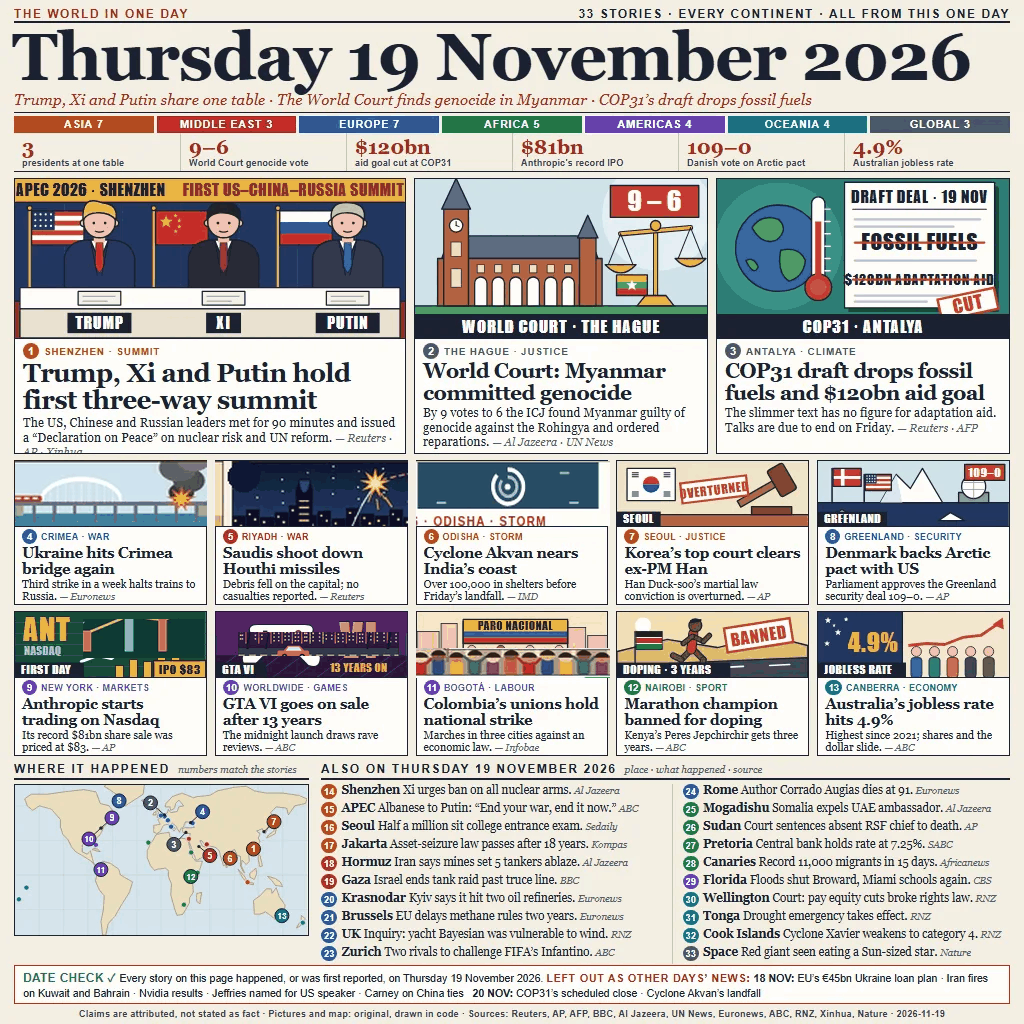
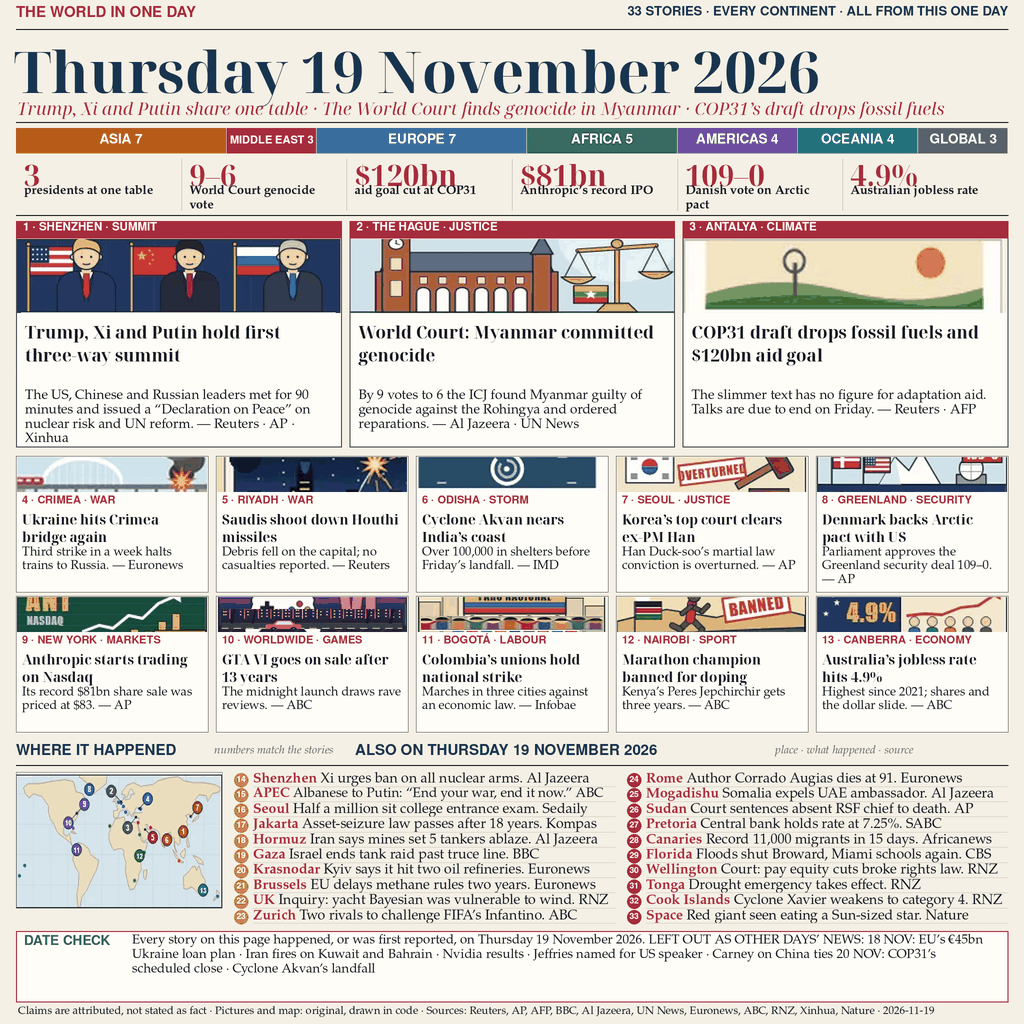
Publish redesigned World News infographic v2

diff --git a/render.py b/render.py
@@ -1,55 +1,278 @@
-"""Composite relevant supplied editorial artwork into Image 1 without retypesetting it."""
+"""Render the 33-story Image 1 edition with a thumbnail-legible type hierarchy."""
 from pathlib import Path
-from PIL import Image, ImageDraw
+from PIL import Image, ImageDraw, ImageFont
+import random
 
 ROOT = Path(__file__).resolve().parent
+OUT = ROOT / "assets" / "entry.png"
 BASE = ROOT / "assets" / "entry-source.webp"
 REF2 = ROOT / "assets" / "reference-2.webp"
 REF3 = ROOT / "assets" / "reference-3.webp"
-OUT = ROOT / "assets" / "entry.png"
+W = H = 1024
+S = 2
 
+FONT_SERIF = "/usr/share/fonts/opentype/urw-base35/P052-Roman.otf"
+FONT_SERIF_B = "/usr/share/fonts/opentype/urw-base35/P052-Bold.otf"
+FONT_SERIF_I = "/usr/share/fonts/opentype/urw-base35/P052-Italic.otf"
+FONT_DISPLAY = "/usr/share/fonts/truetype/noto/NotoSerifDisplay-Bold.ttf"
+FONT_DISPLAY_I = "/usr/share/fonts/truetype/noto/NotoSerifDisplay-Italic.ttf"
+FONT_SANS = "/usr/share/fonts/opentype/urw-base35/NimbusSans-Regular.otf"
+FONT_SANS_B = "/usr/share/fonts/opentype/urw-base35/NimbusSans-Bold.otf"
 
-def paste_art(canvas, source, source_box, target_box, resample=Image.Resampling.LANCZOS):
-    art = source.crop(source_box).resize(
-        (target_box[2] - target_box[0], target_box[3] - target_box[1]), resample
-    )
-    canvas.paste(art, target_box[:2])
+BG = "#F4F0E5"
+PAPER = "#FFFDF7"
+INK = "#171B20"
+NAVY = "#17354F"
+RED = "#A52C3D"
+BLUE = "#386D9E"
+GREEN = "#326B54"
+OCHRE = "#C18A40"
+MUTED = "#6B6A64"
+RULE = "#8C887F"
 
 
 def render():
-    page = Image.open(BASE).convert("RGB")
+    canvas = Image.new("RGB", (W*S, H*S), BG)
+    d = ImageDraw.Draw(canvas)
+    original = Image.open(BASE).convert("RGB")
     ref2 = Image.open(REF2).convert("RGB")
     ref3 = Image.open(REF3).convert("RGB")
+    cache = {}
 
-    # Image 1's editorial layout and all its typography remain the base layer.
-    # Only the illustration windows are adapted, and only from matching stories.
-    # Start to the right of each source illustration's old story-number badge.
-    paste_art(page, ref2, (535, 439, 654, 487), (15, 461, 207, 526))    # Crimea bridge
-    riyadh_box = (837, 439, 974, 487)
-    riyadh = ref2.crop(riyadh_box)
-    # Remove the source card's old red 9 marker; Image 1 supplies the correct 5.
-    riyadh_fill = ref2.getpixel((875, 442))
-    ImageDraw.Draw(riyadh).ellipse((857 - riyadh_box[0] - 11, 450 - riyadh_box[1] - 11,
-                                    857 - riyadh_box[0] + 11, 450 - riyadh_box[1] + 11), fill=riyadh_fill)
-    page.paste(riyadh.resize((193, 65), Image.Resampling.LANCZOS), (215, 461))
-    paste_art(page, ref3, (426, 429, 604, 482), (416, 461, 610, 526))  # Cyclone Akvan
+    def F(size, family="serif"):
+        path = {"serif": FONT_SERIF, "serifb": FONT_SERIF_B, "serifi": FONT_SERIF_I,
+                "display": FONT_DISPLAY, "displayi": FONT_DISPLAY_I,
+                "sans": FONT_SANS, "sansb": FONT_SANS_B}[family]
+        key = (path, int(round(size*S)))
+        if key not in cache:
+            cache[key] = ImageFont.truetype(path, key[1])
+        return cache[key]
 
-    # Reuse the matching market plot, with no extra labels, in the existing ANT panel.
-    paste_art(page, ref3, (860, 248, 982, 305), (83, 619, 204, 658))
+    def box(x1,y1,x2,y2,fill=None,outline=None,width=1):
+        d.rectangle((round(x1*S),round(y1*S),round(x2*S),round(y2*S)),fill=fill,outline=outline,width=max(1,round(width*S)))
 
-    # Add a cinematic city/car strip from the GTA VI art while retaining Image 1's
-    # original GTA VI and 13 years lettering above and below it.
-    paste_art(page, ref2, (420, 254, 710, 298), (238, 632, 399, 656))
+    def line(x1,y1,x2,y2,fill=RULE,width=1):
+        d.line((round(x1*S),round(y1*S),round(x2*S),round(y2*S)),fill=fill,width=max(1,round(width*S)))
 
-    # Use the matching Bogotá march crowd in the lower part of its existing art
-    # window; preserve Image 1's own PARO NACIONAL lettering and card number.
-    paste_art(page, ref2, (690, 628, 814, 655), (416, 648, 610, 678))
+    def text(x,y,s,size,fill=INK,family="serif",anchor=None):
+        d.text((round(x*S),round(y*S)),s,font=F(size,family),fill=fill,anchor=anchor)
 
-    page.quantize(colors=256, method=Image.Quantize.MEDIANCUT, dither=Image.Dither.NONE).save(
-        OUT, format="PNG", optimize=True, compress_level=9
+    def width(s,size,family="serif"):
+        return d.textlength(s,font=F(size,family))/S
+
+    def wrap(s,size,maxw,family="serif"):
+        rows=[]; cur=""
+        for word in s.split():
+            t=(cur+" "+word).strip()
+            if width(t,size,family)>maxw and cur:
+                rows.append(cur); cur=word
+            else: cur=t
+        if cur: rows.append(cur)
+        return rows
+
+    def para(x,y,s,maxw,size,fill=INK,family="serif",leading=None,maxlines=20,fit_min=None):
+        fs=size
+        rows=wrap(s,fs,maxw,family)
+        if fit_min is not None:
+            while len(rows)>maxlines and fs>fit_min:
+                fs-=.2; rows=wrap(s,fs,maxw,family)
+        rows=rows[:maxlines]
+        step=leading or fs*1.2
+        for i,row in enumerate(rows): text(x,y+i*step,row,fs,fill,family)
+        return len(rows)*step, rows, fs
+
+    def fitted(s,maxw,size,family="serifb",minimum=9):
+        while size>minimum and width(s,size,family)>maxw: size-=.2
+        return size
+
+    def place_crop(source,crop,target,mode="cover"):
+        image=source.crop(crop)
+        x1,y1,x2,y2=target; tw=round((x2-x1)*S); th=round((y2-y1)*S)
+        if mode=="cover":
+            scale=max(tw/image.width,th/image.height)
+            image=image.resize((round(image.width*scale),round(image.height*scale)),Image.Resampling.LANCZOS)
+            left=(image.width-tw)//2; top=(image.height-th)//2
+            image=image.crop((left,top,left+tw,top+th))
+        else:
+            image=image.resize((tw,th),Image.Resampling.LANCZOS)
+        canvas.paste(image,(round(x1*S),round(y1*S)))
+
+    # Quiet paper grain, matching Image 1's ivory identity.
+    random.seed(20261119)
+    for _ in range(8000):
+        x=random.randrange(W*S); y=random.randrange(H*S)
+        canvas.putpixel((x,y),(244,240,229) if random.random()<.65 else (248,245,237))
+    d=ImageDraw.Draw(canvas)
+
+    # Masthead and date, retaining Image 1's wording and structure.
+    text(16,6,"THE WORLD IN ONE DAY",15.2,RED,"sansb")
+    text(1008,6,"33 STORIES · EVERY CONTINENT · ALL FROM THIS ONE DAY",13.2,NAVY,"sansb","ra")
+    line(16,29,1008,29,INK,1.2)
+    title="Thursday 19 November 2026"
+    text(14,32,title,fitted(title,994,57,"display",49),NAVY,"display")
+    subtitle="Trump, Xi and Putin share one table · The World Court finds genocide in Myanmar · COP31’s draft drops fossil fuels"
+    para(17,96,subtitle,990,17.6,RED,"displayi",20,2,15)
+    line(16,122,1008,122,INK,.8)
+
+    # Geographical distribution.
+    regions=[("ASIA",7,"#B65C18"),("MIDDLE EAST",3,RED),("EUROPE",7,BLUE),("AFRICA",5,GREEN),
+             ("AMERICAS",4,"#6B4BA0"),("OCEANIA",4,"#1A7180"),("GLOBAL",3,"#58626C")]
+    total=sum(n for _,n,_ in regions); x=16; barw=992
+    for label,count,color in regions:
+        ww=barw*count/total
+        box(x,128,x+ww-1,153,color)
+        labeltext=f"{label} {count}"
+        fs=fitted(labeltext,ww-4,13.6,"sansb",10.5)
+        text(x+ww/2,140.5,labeltext,fs,"#FFFFFF","sansb","mm")
+        x+=ww
+
+    # Six key figures; larger numerals and captions.
+    stats=[("3","presidents at one table"),("9–6","World Court genocide vote"),
+           ("$120bn","aid goal cut at COP31"),("$81bn","Anthropic’s record IPO"),
+           ("109–0","Danish vote on Arctic pact"),("4.9%","Australian jobless rate")]
+    sx=16; sw=992/6
+    for i,(num,desc) in enumerate(stats):
+        x=sx+i*sw
+        if i: line(x,159,x,210,"#B4AEA2",.7)
+        text(x+8,155,num,fitted(num,sw-16,29,"display",22),RED,"display")
+        para(x+8,185,desc,sw-16,12.7,INK,"serifb",14.6,2,11.3)
+    line(16,215,1008,215,INK,.9)
+
+    # Feature cards: smaller art panes leave more room for readable copy.
+    leads=[
+      ("1","SHENZHEN · SUMMIT","Trump, Xi and Putin hold first three-way summit",
+       "The US, Chinese and Russian leaders met for 90 minutes and issued a “Declaration on Peace” on nuclear risk and UN reform. — Reuters · AP · Xinhua",(16,202,405,289),original),
+      ("2","THE HAGUE · JUSTICE","World Court: Myanmar committed genocide",
+       "By 9 votes to 6 the ICJ found Myanmar guilty of genocide against the Rohingya and ordered reparations. — Al Jazeera · UN News",(415,220,707,307),original),
+      ("3","ANTALYA · CLIMATE","COP31 draft drops fossil fuels and $120bn aid goal",
+       "The slimmer text has no figure for adaptation aid. Talks are due to end on Friday. — Reuters · AFP",(216,429,410,470),ref3)]
+    lx=16; ly=221; gap=8; lw=(992-2*gap)/3; lh=226
+    for i,(num,loc,head,desc,crop,source) in enumerate(leads):
+        x=lx+i*(lw+gap)
+        box(x,ly,x+lw,ly+lh,PAPER,"#494B4C",.8)
+        box(x,ly,x+lw,ly+17,RED)
+        text(x+7,ly+1,f"{num} · {loc}",11.4,"#FFFFFF","sansb")
+        place_crop(source,crop,(x+1,ly+18,x+lw-1,ly+92),"stretch")
+        hs=fitted(head,lw-18,21.2,"display",17)
+        para(x+9,ly+99,head,lw-18,hs,INK,"display",23,3,16.2)
+        para(x+9,ly+168,desc,lw-18,13.5,INK,"serif",14.4,4,12.2)
+
+    # Ten story cards. Their original topic-matched art remains; selected panels
+    # use matching scenes from the supplied reference graphics.
+    stories=[
+      ("4","CRIMEA · WAR","Ukraine hits Crimea bridge again","Third strike in a week halts trains to Russia. — Euronews",(535,439,654,487),ref2),
+      ("5","RIYADH · WAR","Saudis shoot down Houthi missiles","Debris fell on the capital; no casualties reported. — Reuters",(837,439,974,487),ref2),
+      ("6","ODISHA · STORM","Cyclone Akvan nears India’s coast","Over 100,000 in shelters before Friday’s landfall. — IMD",(426,429,604,482),ref3),
+      ("7","SEOUL · JUSTICE","Korea’s top court clears ex-PM Han","Han Duck-soo’s martial law conviction is overturned. — AP",(618,460,810,525),original),
+      ("8","GREENLAND · SECURITY","Denmark backs Arctic pact with US","Parliament approves the Greenland security deal 109–0. — AP",(817,460,1010,525),original),
+      ("9","NEW YORK · MARKETS","Anthropic starts trading on Nasdaq","Its record $81bn share sale was priced at $83. — AP",(14,611,207,678),original),
+      ("10","WORLDWIDE · GAMES","GTA VI goes on sale after 13 years","The midnight launch draws rave reviews. — ABC",(214,611,408,678),original),
+      ("11","BOGOTÁ · LABOUR","Colombia’s unions hold national strike","Marches in three cities against an economic law. — Infobae",(415,611,610,678),original),
+      ("12","NAIROBI · SPORT","Marathon champion banned for doping","Kenya’s Peres Jepchirchir gets three years. — ABC",(617,611,810,678),original),
+      ("13","CANBERRA · ECONOMY","Australia’s jobless rate hits 4.9%","Highest since 2021; shares and the dollar slide. — ABC",(818,611,1010,678),original),
+    ]
+    # Scene-only replacement/crops that contain no unrelated story words.
+    art=[]
+    crimea=ref2.crop((535,439,654,487))
+    riyadh_box=(837,439,974,487)
+    riyadh=ref2.crop(riyadh_box)
+    riyadh_fill=ref2.getpixel((875,442))
+    ImageDraw.Draw(riyadh).ellipse((857-riyadh_box[0]-11,450-riyadh_box[1]-11,
+                                    857-riyadh_box[0]+11,450-riyadh_box[1]+11),fill=riyadh_fill)
+    # Remove the source panel's 9 marker; keep the matching Riyadh skyline art.
+    fill=ref2.getpixel((875,442))
+    ImageDraw.Draw(riyadh).ellipse((857-837-11,450-439-11,857-837+11,450-439+11),fill=fill)
+    akvan=ref3.crop((426,429,604,482))
+    art=[crimea,riyadh,akvan]
+    for i,(num,loc,head,desc,crop,source) in enumerate(stories):
+        col=i%5; row=i//5; x=16+col*200; y=456+row*140; cw=192; ch=136
+        box(x,y,x+cw,y+ch,PAPER,"#55534D",.7)
+        if i<3: pane=art[i]
+        elif source is original: pane=source.crop(crop)
+        else: pane=source.crop(crop)
+        # Story 10 gets the matching no-caption night-city/car detail from Image 2.
+        if num=="10":
+            pane=original.crop(crop)
+        place_crop(pane,(0,0,pane.width,pane.height),(x+1,y+1,x+cw-1,y+36))
+        # Add image 2's night car strip inside the GTA art window, without its labels.
+        if num=="10":
+            car=ref2.crop((420,254,710,298)).resize((round((cw-10)*S),round(20*S)),Image.Resampling.LANCZOS)
+            canvas.paste(car,(round((x+5)*S),round((y+13)*S)))
+        if num=="11":
+            crowd=ref2.crop((690,628,814,655)).resize((round((cw-10)*S),round(15*S)),Image.Resampling.LANCZOS)
+            canvas.paste(crowd,(round((x+5)*S),round((y+20)*S)))
+        tag=f"{num} · {loc}"
+        text(x+6,y+39,tag,fitted(tag,cw-12,11.2,"sansb",9.2),RED,"sansb")
+        hs=fitted(head,cw-12,16.3,"display",13.4)
+        _,rows,_=para(x+6,y+54,head,cw-12,hs,INK,"display",17.5,3,12.7)
+        decky=y+54+len(rows)*17.5+1
+        para(x+6,decky,desc,cw-12,12.5,INK,"serif",13.7,3,10.8)
+
+    # Lower map and briefs. Four compact columns keep the 20 briefs visible,
+    # with larger line spacing than Image 1's original lower block.
+    lower_y=744
+    text(16,lower_y,"WHERE IT HAPPENED",15.2,NAVY,"sansb")
+    text(214,lower_y+1,"numbers match the stories",11.5,MUTED,"serifi")
+    text(355,lower_y,"ALSO ON THURSDAY 19 NOVEMBER 2026",15.2,NAVY,"sansb")
+    text(775,lower_y+1,"place · what happened · source",11.5,MUTED,"serifi")
+    line(16,765,1008,765,INK,.8)
+    mapcrop=original.crop((14,781,309,936)).resize((206*S,136*S),Image.Resampling.LANCZOS)
+    canvas.paste(mapcrop,(16*S,772*S))
+    box(16,772,222,908,None,"#77766F",.6)
+
+    briefs=[
+      ("14","Shenzhen","Xi urges ban on all nuclear arms.","Al Jazeera"),
+      ("15","APEC","Albanese to Putin: “End your war, end it now.”","ABC"),
+      ("16","Seoul","Half a million sit college entrance exam.","Sedaily"),
+      ("17","Jakarta","Asset-seizure law passes after 18 years.","Kompas"),
+      ("18","Hormuz","Iran says mines set 5 tankers ablaze.","Al Jazeera"),
+      ("19","Gaza","Israel ends tank raid past truce line.","BBC"),
+      ("20","Krasnodar","Kyiv says it hit two oil refineries.","Euronews"),
+      ("21","Brussels","EU delays methane rules two years.","Euronews"),
+      ("22","UK","Inquiry: yacht Bayesian was vulnerable to wind.","RNZ"),
+      ("23","Zurich","Two rivals to challenge FIFA’s Infantino.","ABC"),
+      ("24","Rome","Author Corrado Augias dies at 91.","Euronews"),
+      ("25","Mogadishu","Somalia expels UAE ambassador.","Al Jazeera"),
+      ("26","Sudan","Court sentences absent RSF chief to death.","AP"),
+      ("27","Pretoria","Central bank holds rate at 7.25%.","SABC"),
+      ("28","Canaries","Record 11,000 migrants in 15 days.","Africanews"),
+      ("29","Florida","Floods shut Broward, Miami schools again.","CBS"),
+      ("30","Wellington","Court: pay equity cuts broke rights law.","RNZ"),
+      ("31","Tonga","Drought emergency takes effect.","RNZ"),
+      ("32","Cook Islands","Cyclone Xavier weakens to category 4.","RNZ"),
+      ("33","Space","Red giant seen eating a Sun-sized star.","Nature"),
+    ]
+    bx=234; bw=774; colgap=12; colw=(bw-colgap)/2; top=772; rows_per=10; rowh=15.2
+    badge_colors=[OCHRE,RED]
+    for i,(num,place,summary,source) in enumerate(briefs):
+        col=i//rows_per; row=i%rows_per; x=bx+col*(colw+colgap); y=top+row*rowh
+        color=badge_colors[col]
+        d.ellipse((round(x*S),round((y+1)*S),round((x+14)*S),round((y+15)*S)),fill=color)
+        text(x+7,y+8,num,8.6,"#FFFFFF","sansb","mm")
+        fs=14.0
+        rest=f"{summary} {source}"
+        while width(place+" ",fs,"serifb")+width(rest,fs,"serif")>colw-23 and fs>11.4:
+            fs-=.2
+        assert width(place+" ",fs,"serifb")+width(rest,fs,"serif")<=colw-22, f"brief {num} exceeds its column"
+        tx=x+19
+        text(tx,y,place,fs,RED,"serifb")
+        text(tx+width(place+" ",fs,"serifb"),y,rest,fs,INK,"serif")
+        line(x+19,y+14.3,x+colw,y+14.3,"#D1CBBF",.35)
+
+    # Date check and footer retain every phrase from Image 1.
+    box(16,931,1008,1002,PAPER,RED,.9)
+    text(24,935,"DATE CHECK ✓",13.5,GREEN,"sansb")
+    datecheck="Every story on this page happened, or was first reported, on Thursday 19 November 2026. LEFT OUT AS OTHER DAYS’ NEWS: 18 NOV: EU’s €45bn Ukraine loan plan · Iran fires on Kuwait and Bahrain · Nvidia results · Jeffries named for US speaker · Carney on China ties 20 NOV: COP31’s scheduled close · Cyclone Akvan’s landfall"
+    para(132,934,datecheck,866,12.8,INK,"serif",14.4,4,10.8)
+    footer="Claims are attributed, not stated as fact · Pictures and map: original, drawn in code · Sources: Reuters, AP, AFP, BBC, Al Jazeera, UN News, Euronews, ABC, RNZ, Xinhua, Nature · 2026-11-19"
+    para(18,1006,footer,990,10.8,INK,"serif",12.0,2,9.8)
+
+    final=canvas.resize((W,H),Image.Resampling.LANCZOS)
+    final.quantize(colors=256,method=Image.Quantize.MEDIANCUT,dither=Image.Dither.NONE).save(
+        OUT,format="PNG",optimize=True,compress_level=9
     )
     return OUT
 
 
-if __name__ == "__main__":
+if __name__=="__main__":
     print(render())

diff --git a/text_audit.md b/text_audit.md
@@ -1,35 +1,32 @@
-# Text and graphics audit — Image 1 recreation
+# Text and legibility audit — THE WORLD IN ONE DAY
 
-## Text preservation
+## Text and story coverage
 
-Image 1 is the base layer. Its masthead, edition line, date, subtitle, seven region labels and counts, six statistics, all 33 story items, map, date-check sentence, footer, and every article headline, description, and source reference remain in their original positions. No text was retyped, rewritten, or added to the art panels. The complete visible copy is transcribed in `reference_transcription.md`.
+The revised image keeps Image 1's complete copy and 33-story numbering: 3 lead stories, 10 illustrated cards (stories 4–13), and 20 briefs (stories 14–33). It retains the seven regional counts, six statistics, map, date-check wording, footer, and all visible story sources. No stories were added or removed. The complete copy is recorded in `reference_transcription.md`.
 
-The source clips part of the first lead card's final source line at the lower card edge. The image was preserved as supplied; the transcription notes this clipping rather than silently correcting it.
+The first lead card's last source line is clipped in Image 1. The transcription records the visible source text and notes the source clipping.
 
-## Graphics adapted from Images 2 and 3
+## Design changes for the review feedback
 
-- Story 4, Crimea bridge: bridge strike scene from Image 2.
-- Story 5, Riyadh missile: night skyline and interception scene from Image 2.
-- Story 6, Cyclone Akvan: cyclone symbol from Image 3.
-- Story 9, Anthropic: chart detail from Image 3, without its labels.
-- Story 10, GTA VI: city and car strip from Image 2, without its labels.
-- Story 11, Bogotá: march crowd from Image 2, retaining Image 1's own banner.
+The recurring critique was that dense copy becomes hard to read at thumbnail scale. The masthead, date, statistics, story headlines, and descriptions now have a clearer size and weight hierarchy. Lead and secondary artwork panes are shorter to give their copy more room. The 20 briefs use two wider columns with one-line entries and highlighted locations, instead of narrow wrapped columns.
 
-Image 1 has no France story, so Image 3's French political graphic was not placed on an unrelated item. Other cards retain Image 1's original topic-matched art.
+Artwork remains matched to its story: summit, World Court, climate, bridge strike, Riyadh interception, cyclone, justice, Arctic pact, IPO, GTA VI, Bogotá strike, doping, and Australian jobs. The supplied French political art was not used because Image 1 has no France story.
 
 ## Output checks
 
 - PNG: valid, 1024 × 1024 pixels
-- Size: 426,030 bytes (under 1 MiB)
[1 lines of base64/hex data omitted]
-- Renderer: deterministic Pillow compositing; source text remains from Image 1
-- Main runtime: existing `main.ts`; Node built-ins only, copies the bundled `assets/entry.png`
+- File size: 252,398 bytes (under 1 MiB)
[1 lines of base64/hex data omitted]
+- Deterministic repeat render: byte-identical
+- `out/entry.png`: byte-identical runtime copy
+- Text: compared against the supplied Image 1 transcription; all 33 items and publication text are present
+- Runtime: existing `main.ts` copies `assets/entry.png`; uses Node built-ins only
 - No commit, push, or submission performed
 
-## Changed files
+## Files changed
 
-- `render.py` — reproducible composition of relevant supplied art into Image 1's artwork panels
-- `assets/entry.png` — final image
-- `assets/reference-2.webp` and `assets/reference-3.webp` — bundled art references used by the renderer
-- `reference_transcription.md` — Image 1 copy transcription
+- `render.py` — 1024-square renderer with larger type hierarchy and content-matched artwork
+- `assets/entry.png` — revised deliverable
+- `assets/reference-2.webp`, `assets/reference-3.webp` — supplied visual references used for matching artwork
+- `reference_transcription.md` — complete Image 1 copy transcription
 - `text_audit.md` — this report
